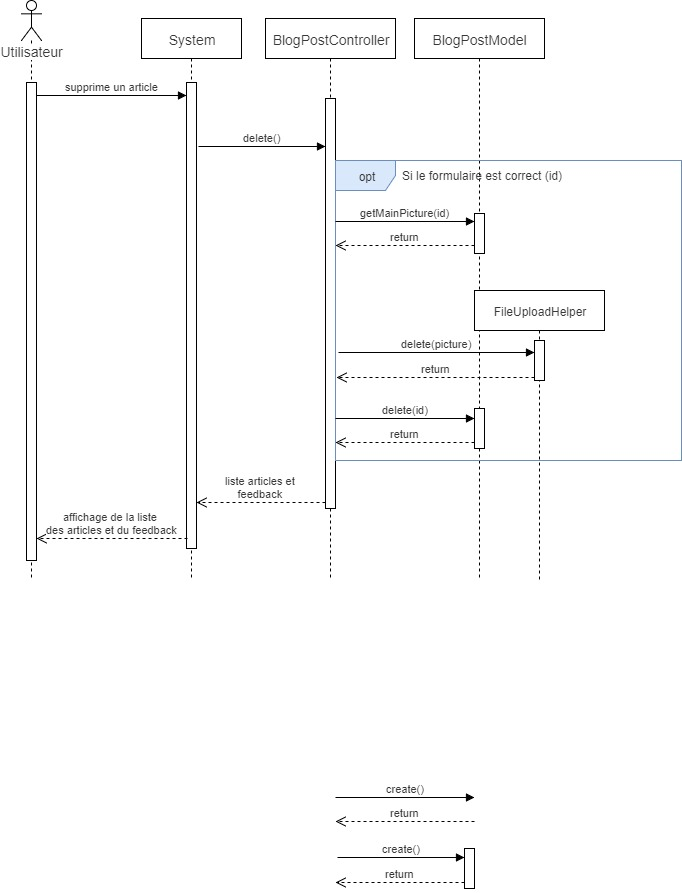
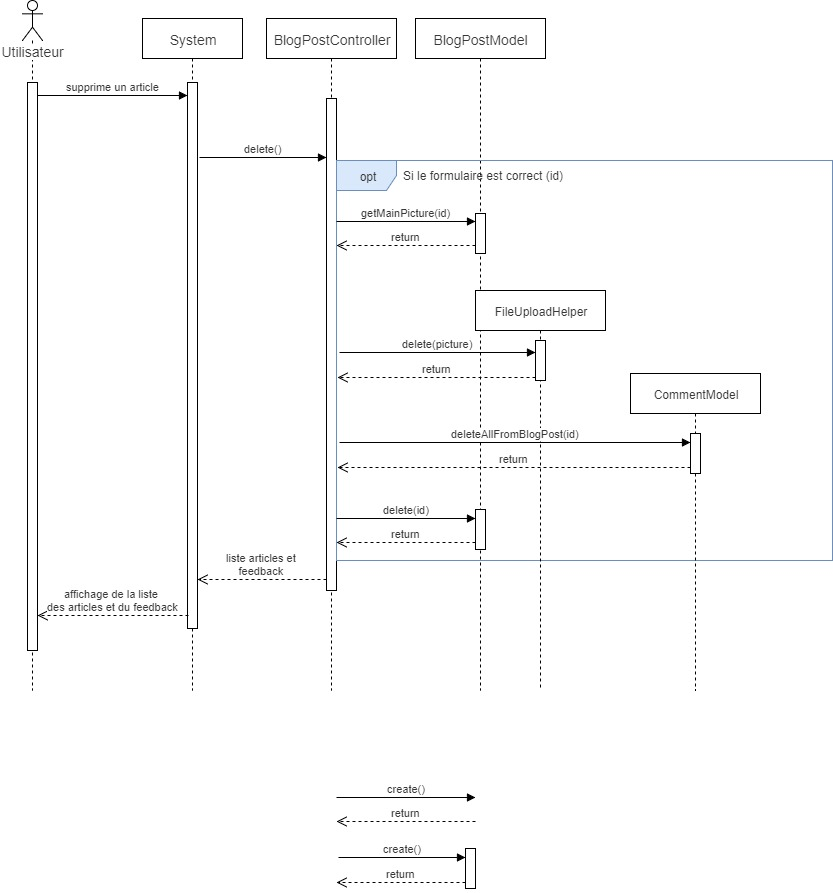
Bug fix: comments are now deleted on blogpost deletion

diff --git a/app/controller/admin/BlogPostController.php b/app/controller/admin/BlogPostController.php
@@ -160,6 +160,11 @@
 				$file = $this->blogpost->getMainPicture($_POST['id']);
 				$fileHelper = new FileUploadHelper($file->main_picture, $this->pictureRepository, $this->allowedExtensions);
 				$fileHelper->delete($file->main_picture);
+
+				//Remove blogpost's comments
+				$this->loadModel('comment');
+				$this->comment->deleteAllFromBlogPost($_POST['id']);
+
 				//Remove blogpost
 				$this->blogpost->delete($_POST['id']);
 				//Confirmation message

diff --git a/app/model/CommentModel.php b/app/model/CommentModel.php
@@ -41,4 +41,15 @@
 				WHERE NOT c.published"		
 			);
 		}
+
+		/*
+		 * Deletes comments from blogpost
+		 */
+		public function deleteAllFromBlogPost ($id) {
+			return $this->query(
+				"DELETE FROM comment
+				WHERE blogpost_id = ?",
+				[$id]
+			);
+		}
 	}
